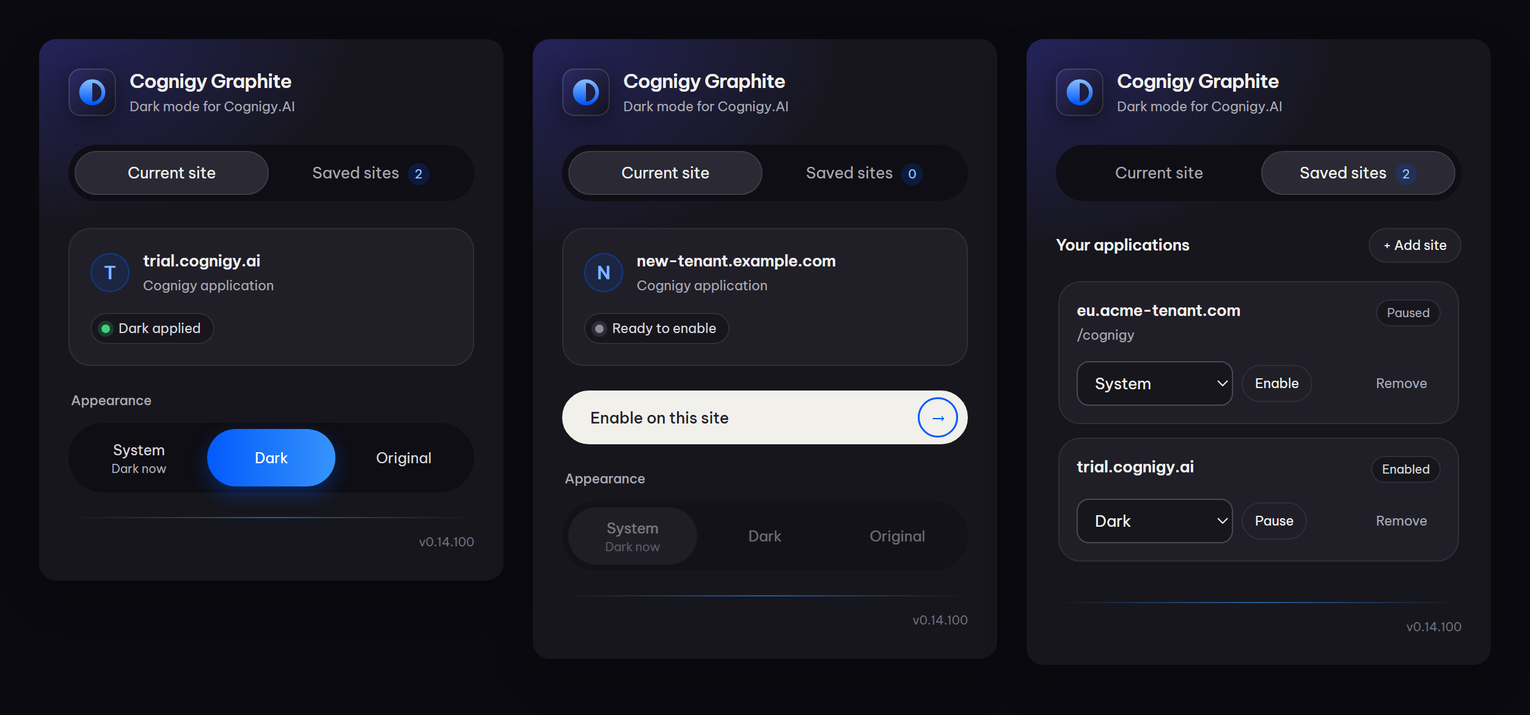
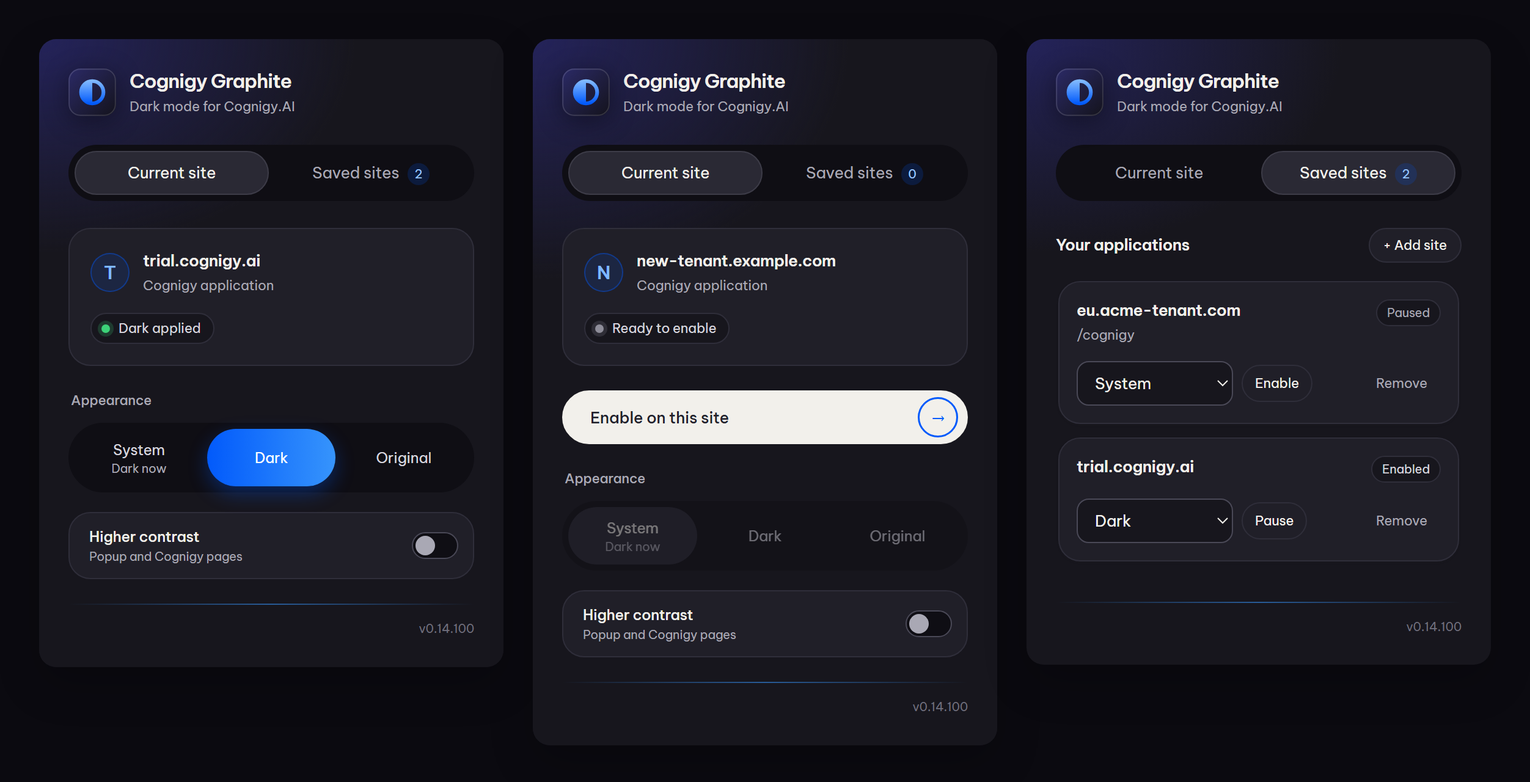
Add Higher contrast switch for popup and Cognigy pages
A global setting (cogDepth.contrast.v1, separate from per-site
modes) strengthens text, icon, border, focus and state tokens.
On pages it rides on a data-cg-contrast marker that is owned and
restored like the palette marker; the popup applies matching
Paper and Ink overrides. Brand look stays the default.

diff --git a/extension/popup.css b/extension/popup.css
@@ -3,6 +3,8 @@
 :root{color-scheme:light;--electric:#025afb;--electric-2:#3694fc;--bg:#f2f0eb;--text:#21212b;--soft:#4c4c58;--muted:#6d6d78;--faint:#9a9aa4;--card:#fbfaf7;--card-shadow:0 1px 2px #21212b0d,0 8px 24px #21212b0f;--line:#dedee3;--line-strong:#c9c9d0;--track:#e8e6e0;--hover:#dcdad3;--button:#fbfaf7;--button-hover:#fff;--tab-on:#21212b;--tab-on-line:#21212b;--tab-on-text:#fff;--tab-on-shadow:0 4px 10px #21212b33;--seg-on:#21212b;--seg-on-shadow:0 4px 12px #21212b40;--seg-on-small:#c9c9d6;--seg-off:#cfcdc6;--seg-off-text:#4c4c58;--cta:#21212b;--cta-hover:#000;--cta-text:#fff;--arrow:#3694fc;--count:#025afb1a;--count-text:#025afb;--count-on:#ffffff26;--count-on-text:#fff;--symbol:#025afb12;--symbol-line:#025afb40;--symbol-text:#025afb;--chip:#f2f0eb;--input:#fff;--focus:#025afb;--notice:#025afb12;--notice-line:#025afb40;--error:#b3261e;--remove-hover:#fbe9eb;--remove-line:#e3b5bc;--remove-text:#8c1d2b;--dot-on:#008359;--dot-busy:#025afb;--dot-warn:#c98a12;--dot-idle:#9a9aa4;--rule:#dedee3;--mark-shadow:#21212b33;--glow:none}
 /* Ink: the dark Cognigy palette, matching what the extension paints. */
 @media(prefers-color-scheme:dark){:root{color-scheme:dark;--bg:#17161d;--text:#f2f0eb;--soft:#d6d5de;--muted:#a9a8b4;--faint:#6f6e7c;--card:#201f28;--card-shadow:none;--line:#2f2e3a;--line-strong:#4a4957;--track:#0f0e14;--hover:#2a2934;--button:#201f28;--button-hover:#2a2934;--tab-on:#2a2934;--tab-on-line:#3d3c48;--tab-on-text:#f2f0eb;--tab-on-shadow:none;--seg-on:linear-gradient(90deg,#025afb,#3694fc);--seg-on-shadow:0 6px 16px #025afb55;--seg-on-small:#dbe9ff;--seg-off:#2a2934;--seg-off-text:#f2f0eb;--cta:#f2f0eb;--cta-hover:#fff;--cta-text:#21212b;--arrow:#025afb;--count:#025afb2e;--count-text:#9cc6ff;--count-on:#025afb2e;--count-on-text:#9cc6ff;--symbol:#025afb1f;--symbol-line:#025afb66;--symbol-text:#7fb8ff;--chip:#17161d;--input:#17161d;--focus:#7fb8ff;--notice:#025afb1f;--notice-line:#025afb66;--error:#ffb4bf;--remove-hover:#3b2a35;--remove-line:#856373;--remove-text:#ffd4dc;--dot-on:#3cd278;--dot-busy:#3694fc;--dot-warn:#f0c27a;--dot-idle:#8e8d99;--rule:linear-gradient(90deg,transparent,#3694fc8c,transparent);--mark-shadow:#0006;--glow:radial-gradient(110% 55% at 0 0,#24235a 0,transparent 62%)}}
-:root{font:13px/1.5 "Be Vietnam Pro",system-ui,-apple-system,"Segoe UI",sans-serif;letter-spacing:-.01em;color:var(--text);background:var(--bg)}
+/* Higher contrast (user switch): stronger text, borders and selected states in both themes. */
+:root[data-contrast=more]{--soft:#2e2e38;--muted:#4a4a55;--faint:#5a5a65;--line:#b4b4bd;--line-strong:#76767f;--count-text:#0041b8;--symbol-text:#0041b8;--symbol-line:#0041b8;--dot-idle:#5a5a65;--focus:#0041b8;--rule:#b4b4bd}
+@media(prefers-color-scheme:dark){:root[data-contrast=more]{--soft:#ecebf2;--muted:#c9c8d3;--faint:#a3a2ae;--line:#4a4957;--line-strong:#8a8997;--tab-on-line:#8a8997;--seg-on:#0047d6;--seg-on-small:#fff;--count-text:#bcd8ff;--symbol-text:#bcd8ff;--symbol-line:#7fb8ff;--dot-idle:#a3a2ae;--focus:#fff;--rule:#4a4957}}:root{font:13px/1.5 "Be Vietnam Pro",system-ui,-apple-system,"Segoe UI",sans-serif;letter-spacing:-.01em;color:var(--text);background:var(--bg)}
 /* Chrome sizes action popups from the document intrinsic width. Do not cap it to the initial viewport. */
-html{width:380px;min-width:380px}*{box-sizing:border-box}[hidden]{display:none!important}body{margin:0;width:380px;min-width:380px;max-height:600px;overflow-y:auto;padding:24px;background:var(--glow),var(--bg)}button,input,select{font:inherit;letter-spacing:inherit}button{cursor:pointer;color:inherit;border:1px solid var(--line);border-radius:999px;background:var(--button);padding:9px 14px;transition:background-color .12s,border-color .12s}button:hover{background:var(--button-hover);border-color:var(--line-strong)}button:disabled{opacity:.45;cursor:default}button:focus-visible,input:focus-visible,select:focus-visible,summary:focus-visible{outline:2px solid var(--focus);outline-offset:3px}header{display:flex;align-items:center;gap:11px;margin-bottom:23px}.mark{display:block;width:39px;height:39px;flex-shrink:0;filter:drop-shadow(0 4px 10px var(--mark-shadow))}h1{font-size:16px;font-weight:600;letter-spacing:-.035em;line-height:1.3;margin:0}header p{margin:2px 0 0;color:var(--muted);font-size:11px}.views{display:flex;gap:4px;padding:4px;background:var(--track);border:1px solid transparent;border-radius:999px;margin-bottom:22px}.views button{flex:1;border:1px solid transparent;background:transparent;color:var(--muted);padding:7px 4px}.views button:hover{background:var(--hover);border-color:transparent}.views button[aria-pressed=true]{background:var(--tab-on);border-color:var(--tab-on-line);color:var(--tab-on-text);box-shadow:var(--tab-on-shadow)}#site-count{display:inline-flex;align-items:center;justify-content:center;min-width:18px;height:18px;margin-left:4px;padding:0 5px;border-radius:999px;background:var(--count);font-size:10px;color:var(--count-text)}.views button[aria-pressed=true] #site-count{background:var(--count-on);color:var(--count-on-text)}.site-card,.saved-card{border:1px solid var(--line);background:var(--card);border-radius:18px;box-shadow:var(--card-shadow)}.site-card{padding:17px;margin-bottom:20px}.site-heading{display:flex;gap:11px;align-items:center}.site-symbol{display:grid;place-items:center;flex-shrink:0;width:32px;height:32px;background:var(--symbol);border:1px solid var(--symbol-line);border-radius:50%;font-size:15px;font-weight:600;color:var(--symbol-text)}.site-identity{min-width:0}h2{font-size:13px;font-weight:600;letter-spacing:-.02em;line-height:1.4;margin:0;overflow-wrap:anywhere}.site-identity p{font-size:11px;color:var(--muted);margin:3px 0 0;overflow-wrap:anywhere}.badge{display:inline-block;margin-top:13px;border-radius:999px;padding:2px 8px;background:var(--chip);color:var(--soft);font-size:10px;line-height:1.6;border:1px solid var(--line)}.badge[data-state=paused],.badge[data-state=pending]{color:var(--muted)}.primary{background:var(--cta);border-color:var(--cta);color:var(--cta-text);font-weight:500}.primary:hover{background:var(--cta-hover);border-color:var(--cta-hover)}.primary.wide{display:flex;align-items:center;justify-content:space-between;height:44px;padding:0 7px 0 22px}.primary.wide::after{content:"→";display:grid;place-items:center;width:30px;height:30px;border:1.5px solid var(--arrow);border-radius:50%;color:var(--arrow);font-size:14px}.wide{width:100%;margin:0 0 20px}fieldset{padding:0;margin:0;border:0}legend{margin:0 0 10px;font-size:11px;color:var(--muted);font-weight:500}.modes{display:flex;padding:4px;background:var(--track);border:1px solid transparent;border-radius:999px;gap:3px}.modes label{flex:1;cursor:pointer;position:relative}.modes input{position:absolute;opacity:0;width:1px;height:1px}.modes span{display:flex;flex-direction:column;justify-content:center;height:100%;text-align:center;padding:8px 4px;border-radius:999px;font-size:12px;color:var(--soft)}.modes small{font-size:10px;line-height:1.3;color:var(--muted)}.modes input:checked+span{background:var(--seg-on);color:#fff;box-shadow:var(--seg-on-shadow)}.modes input:checked+span small{color:var(--seg-on-small)}.modes input:focus-visible+span{outline:2px solid var(--focus);outline-offset:3px}.modes input:not(:checked)+span:hover{background:var(--hover)}fieldset:disabled .modes{opacity:.45}fieldset:disabled .modes input:checked+span{background:var(--seg-off);color:var(--seg-off-text);box-shadow:none}fieldset:disabled .modes input:checked+span small{color:var(--muted)}.status{--dot:var(--dot-idle);display:inline-flex;align-items:center;gap:7px;margin:14px 0 0;padding:3px 10px 3px 8px;border-radius:999px;border:1px solid var(--line);background:var(--chip);color:var(--soft);font-size:11px;line-height:1.6}.status::before{content:"";width:7px;height:7px;flex-shrink:0;border-radius:50%;background:var(--dot);box-shadow:0 0 0 3px color-mix(in srgb,var(--dot) 20%,transparent)}.status[data-tone=on]{--dot:var(--dot-on)}.status[data-tone=busy]{--dot:var(--dot-busy)}.status[data-tone=warn]{--dot:var(--dot-warn)}.section-heading{display:flex;align-items:center;justify-content:space-between;gap:8px;margin-bottom:14px}.small{padding:5px 11px;font-size:11px}.saved-card{padding:14px;margin-bottom:11px;box-shadow:0 1px 2px #21212b14}.saved-top{display:flex;align-items:start;justify-content:space-between;gap:8px}.saved-top .badge{flex-shrink:0;margin:0}.saved-path{color:var(--muted);font-size:10px;overflow-wrap:anywhere;margin:3px 0 0}.saved-controls{display:flex;align-items:center;gap:7px;margin-top:13px}.saved-controls select{min-width:0;max-width:128px;flex:1}.saved-controls button{font-size:11px;padding:6px 10px}.saved-controls .remove{margin-left:auto;background:transparent;border-color:transparent;color:var(--muted)}.saved-controls .remove:hover{border-color:var(--remove-line);color:var(--remove-text);background:var(--remove-hover)}input[type=text],select{width:100%;color:var(--text);background:var(--input);border:1px solid var(--line-strong);border-radius:10px;padding:8px 10px}input::placeholder{color:var(--faint)}#add-form{border:1px solid var(--line);padding:15px;border-radius:18px;background:var(--card);box-shadow:var(--card-shadow);margin-bottom:15px}#add-form label{display:block;margin-bottom:6px;font-size:11px;font-weight:600}#add-form .primary{padding:7px 16px}details{margin-top:11px}summary{color:var(--soft);font-size:11px;cursor:pointer;margin-bottom:8px}.muted{color:var(--muted);font-weight:400}.error{color:var(--error);font-size:11px;margin:8px 0}.error:empty{display:none}.form-actions{display:flex;justify-content:flex-end;gap:8px;margin-top:15px}.form-actions button{font-size:11px}.quiet{background:transparent}.empty{color:var(--muted);text-align:center;font-size:12px;margin:30px 0}#notice{font-size:11px;color:var(--text);background:var(--notice);border:1px solid var(--notice-line);border-radius:12px;padding:9px 11px;margin:14px 0 0}footer{position:relative;margin-top:20px;padding-top:13px;display:flex;align-items:center;gap:7px;color:var(--muted);font-size:10px}footer::before{content:"";position:absolute;left:0;right:0;top:0;height:1px;background:var(--rule)}#version{margin-left:auto;color:var(--faint)}#saved-list{max-height:310px;overflow-y:auto;scrollbar-width:thin;padding:1px 2px 2px}body:has(#add-form:not([hidden])) #saved-list,body:has(#add-form:not([hidden])) #empty-sites{display:none}body:has(#add-form:not([hidden])) #show-add{visibility:hidden}@media(prefers-reduced-motion:reduce){*{transition:none}}
+html{width:380px;min-width:380px}*{box-sizing:border-box}[hidden]{display:none!important}body{margin:0;width:380px;min-width:380px;max-height:600px;overflow-y:auto;padding:24px;background:var(--glow),var(--bg)}button,input,select{font:inherit;letter-spacing:inherit}button{cursor:pointer;color:inherit;border:1px solid var(--line);border-radius:999px;background:var(--button);padding:9px 14px;transition:background-color .12s,border-color .12s}button:hover{background:var(--button-hover);border-color:var(--line-strong)}button:disabled{opacity:.45;cursor:default}button:focus-visible,input:focus-visible,select:focus-visible,summary:focus-visible{outline:2px solid var(--focus);outline-offset:3px}header{display:flex;align-items:center;gap:11px;margin-bottom:23px}.mark{display:block;width:39px;height:39px;flex-shrink:0;filter:drop-shadow(0 4px 10px var(--mark-shadow))}h1{font-size:16px;font-weight:600;letter-spacing:-.035em;line-height:1.3;margin:0}header p{margin:2px 0 0;color:var(--muted);font-size:11px}.views{display:flex;gap:4px;padding:4px;background:var(--track);border:1px solid transparent;border-radius:999px;margin-bottom:22px}.views button{flex:1;border:1px solid transparent;background:transparent;color:var(--muted);padding:7px 4px}.views button:hover{background:var(--hover);border-color:transparent}.views button[aria-pressed=true]{background:var(--tab-on);border-color:var(--tab-on-line);color:var(--tab-on-text);box-shadow:var(--tab-on-shadow)}#site-count{display:inline-flex;align-items:center;justify-content:center;min-width:18px;height:18px;margin-left:4px;padding:0 5px;border-radius:999px;background:var(--count);font-size:10px;color:var(--count-text)}.views button[aria-pressed=true] #site-count{background:var(--count-on);color:var(--count-on-text)}.site-card,.saved-card{border:1px solid var(--line);background:var(--card);border-radius:18px;box-shadow:var(--card-shadow)}.site-card{padding:17px;margin-bottom:20px}.site-heading{display:flex;gap:11px;align-items:center}.site-symbol{display:grid;place-items:center;flex-shrink:0;width:32px;height:32px;background:var(--symbol);border:1px solid var(--symbol-line);border-radius:50%;font-size:15px;font-weight:600;color:var(--symbol-text)}.site-identity{min-width:0}h2{font-size:13px;font-weight:600;letter-spacing:-.02em;line-height:1.4;margin:0;overflow-wrap:anywhere}.site-identity p{font-size:11px;color:var(--muted);margin:3px 0 0;overflow-wrap:anywhere}.badge{display:inline-block;margin-top:13px;border-radius:999px;padding:2px 8px;background:var(--chip);color:var(--soft);font-size:10px;line-height:1.6;border:1px solid var(--line)}.badge[data-state=paused],.badge[data-state=pending]{color:var(--muted)}.primary{background:var(--cta);border-color:var(--cta);color:var(--cta-text);font-weight:500}.primary:hover{background:var(--cta-hover);border-color:var(--cta-hover)}.primary.wide{display:flex;align-items:center;justify-content:space-between;height:44px;padding:0 7px 0 22px}.primary.wide::after{content:"→";display:grid;place-items:center;width:30px;height:30px;border:1.5px solid var(--arrow);border-radius:50%;color:var(--arrow);font-size:14px}.wide{width:100%;margin:0 0 20px}fieldset{padding:0;margin:0;border:0}legend{margin:0 0 10px;font-size:11px;color:var(--muted);font-weight:500}.modes{display:flex;padding:4px;background:var(--track);border:1px solid transparent;border-radius:999px;gap:3px}.modes label{flex:1;cursor:pointer;position:relative}.modes input{position:absolute;opacity:0;width:1px;height:1px}.modes span{display:flex;flex-direction:column;justify-content:center;height:100%;text-align:center;padding:8px 4px;border-radius:999px;font-size:12px;color:var(--soft)}.modes small{font-size:10px;line-height:1.3;color:var(--muted)}.modes input:checked+span{background:var(--seg-on);color:#fff;box-shadow:var(--seg-on-shadow)}.modes input:checked+span small{color:var(--seg-on-small)}.modes input:focus-visible+span{outline:2px solid var(--focus);outline-offset:3px}.modes input:not(:checked)+span:hover{background:var(--hover)}fieldset:disabled .modes{opacity:.45}fieldset:disabled .modes input:checked+span{background:var(--seg-off);color:var(--seg-off-text);box-shadow:none}fieldset:disabled .modes input:checked+span small{color:var(--muted)}.status{--dot:var(--dot-idle);display:inline-flex;align-items:center;gap:7px;margin:14px 0 0;padding:3px 10px 3px 8px;border-radius:999px;border:1px solid var(--line);background:var(--chip);color:var(--soft);font-size:11px;line-height:1.6}.status::before{content:"";width:7px;height:7px;flex-shrink:0;border-radius:50%;background:var(--dot);box-shadow:0 0 0 3px color-mix(in srgb,var(--dot) 20%,transparent)}.status[data-tone=on]{--dot:var(--dot-on)}.status[data-tone=busy]{--dot:var(--dot-busy)}.status[data-tone=warn]{--dot:var(--dot-warn)}.section-heading{display:flex;align-items:center;justify-content:space-between;gap:8px;margin-bottom:14px}.small{padding:5px 11px;font-size:11px}.saved-card{padding:14px;margin-bottom:11px;box-shadow:0 1px 2px #21212b14}.saved-top{display:flex;align-items:start;justify-content:space-between;gap:8px}.saved-top .badge{flex-shrink:0;margin:0}.saved-path{color:var(--muted);font-size:10px;overflow-wrap:anywhere;margin:3px 0 0}.saved-controls{display:flex;align-items:center;gap:7px;margin-top:13px}.saved-controls select{min-width:0;max-width:128px;flex:1}.saved-controls button{font-size:11px;padding:6px 10px}.saved-controls .remove{margin-left:auto;background:transparent;border-color:transparent;color:var(--muted)}.saved-controls .remove:hover{border-color:var(--remove-line);color:var(--remove-text);background:var(--remove-hover)}input[type=text],select{width:100%;color:var(--text);background:var(--input);border:1px solid var(--line-strong);border-radius:10px;padding:8px 10px}input::placeholder{color:var(--faint)}#add-form{border:1px solid var(--line);padding:15px;border-radius:18px;background:var(--card);box-shadow:var(--card-shadow);margin-bottom:15px}#add-form label{display:block;margin-bottom:6px;font-size:11px;font-weight:600}#add-form .primary{padding:7px 16px}details{margin-top:11px}summary{color:var(--soft);font-size:11px;cursor:pointer;margin-bottom:8px}.muted{color:var(--muted);font-weight:400}.error{color:var(--error);font-size:11px;margin:8px 0}.error:empty{display:none}.form-actions{display:flex;justify-content:flex-end;gap:8px;margin-top:15px}.form-actions button{font-size:11px}.quiet{background:transparent}.empty{color:var(--muted);text-align:center;font-size:12px;margin:30px 0}#notice{font-size:11px;color:var(--text);background:var(--notice);border:1px solid var(--notice-line);border-radius:12px;padding:9px 11px;margin:14px 0 0}footer{position:relative;margin-top:20px;padding-top:13px;display:flex;align-items:center;gap:7px;color:var(--muted);font-size:10px}footer::before{content:"";position:absolute;left:0;right:0;top:0;height:1px;background:var(--rule)}#version{margin-left:auto;color:var(--faint)}#saved-list{max-height:310px;overflow-y:auto;scrollbar-width:thin;padding:1px 2px 2px}body:has(#add-form:not([hidden])) #saved-list,body:has(#add-form:not([hidden])) #empty-sites{display:none}body:has(#add-form:not([hidden])) #show-add{visibility:hidden}.switch{display:flex;align-items:center;justify-content:space-between;gap:12px;margin-top:16px;padding:10px 12px 10px 16px;border:1px solid var(--line);border-radius:18px;background:var(--card);cursor:pointer}.switch>span{display:flex;flex-direction:column;font-size:12px;font-weight:500}.switch small{font-size:10px;font-weight:400;color:var(--muted)}.switch input{appearance:none;flex-shrink:0;margin:0;width:38px;height:22px;border-radius:999px;background:var(--track);border:1px solid var(--line-strong);position:relative;cursor:pointer;transition:background-color .12s}.switch input::after{content:"";position:absolute;top:2px;left:2px;width:16px;height:16px;border-radius:50%;background:var(--muted);transition:transform .12s,background-color .12s}.switch input:checked{background:var(--electric);border-color:var(--electric)}.switch input:checked::after{transform:translateX(16px);background:#fff}.switch input:focus-visible{outline:2px solid var(--focus);outline-offset:3px}@media(prefers-reduced-motion:reduce){*{transition:none}}

diff --git a/extension/content.js b/extension/content.js
@@ -15,7 +15,7 @@ globalThis.CogGraphiteStart=() => {
   const storageKey = core.key(siteId);
   const darkMedia = matchMedia('(prefers-color-scheme: dark)');
   const forcedMedia = matchMedia('(forced-colors: active)');
-  let mode = 'native', generation = 0, ready = false, suspended = false;
+  let mode = 'native', contrast = 'standard', generation = 0, ready = false, suspended = false;
   let scheduled = false, state = {appliedMode:'native',status:'original'},refusedFamilies=[];
   let pendingFamilies = new Set(), pendingAll = false;
   let marked = new Map();
@@ -67,6 +67,13 @@ globalThis.CogGraphiteStart=() => {
     if(family!=='palette')guardTransition(el,transition);
     if(name==='data-cg-slot'&&value.split(' ').includes('placeholder'))guardPlaceholder(el);
     if(el.getAttribute(name)!==value)el.setAttribute(name, value);
+  };
+  // Palette-family markers survive preserved requalification, so a switched-off
+  // option restores its own prior value instead of waiting for a full clear.
+  const disown = (el, name) => {
+    const entry=marked.get(el)?.get(name);if(!entry)return;
+    if(entry.prior===null)el.removeAttribute(name);else el.setAttribute(name,entry.prior);
+    marked.get(el).delete(name);if(!marked.get(el).size)marked.delete(el);
   };
   function clear(only=null,preserveActivation=false) {
     for (const [el, attrs] of marked) {
@@ -144,6 +151,7 @@ globalThis.CogGraphiteStart=() => {
       const hasPaint=[...marked.values()].some(attrs=>[...attrs.values()].some(entry=>entry.family!=='palette'));
       if (!result.applied && !hasPaint) { clear(); state.status='unsupported'; return; }
       own(document.documentElement, 'data-cg-palette', 'graphite-v3');
+      if(contrast==='more')own(document.documentElement,'data-cg-contrast','more');else disown(document.documentElement,'data-cg-contrast');
       own(document.documentElement, 'data-cg-build', build.candidateId);
       state = {appliedMode:'dark',status:result.partial?'partial':mode==='system'?'system-dark':'dark'};
       const insightsNav=document.querySelector?.('nav[aria-label="Insights"]');
@@ -168,12 +176,12 @@ globalThis.CogGraphiteStart=() => {
   }
   async function refresh() {
     if(destroyed)return;
-    const before = generation, previousMode=mode, wasReady=ready;
+    const before = generation, previousMode=mode, previousContrast=contrast, wasReady=ready;
     try {
-      const value = await chrome.storage.local.get(storageKey);
-      if (generation === before && !suspended && !destroyed) {mode=core.modeOf(value[storageKey]);ready=true;}
+      const value = await chrome.storage.local.get([storageKey,core.contrastKey]);
+      if (generation === before && !suspended && !destroyed) {mode=core.modeOf(value[storageKey]);contrast=core.contrastOf(value[core.contrastKey]);ready=true;}
     } catch {if(!ready) mode='native';}
-    if(!wasReady||mode!==previousMode)resolve();
+    if(!wasReady||mode!==previousMode||contrast!==previousContrast)resolve();
   }
   const excluded='.monaco-editor,[data-1password-root],[data-codex-overlay],iframe,video';
   const owners=[['shell','.SIDEBAR_WRAPPER'],['banner','[role="banner"]'],['dashboard','div:has(> [role="banner"][data-test="AgentDashboardHeader"]),.MuiPopover-root'],['settings','div:has(> [role="banner"][data-test="AgentSettingsHeader"]),.MuiAutocomplete-popper,.MuiPopover-root'],['list','main#mainContent,div#mainContent'],['agents','main#mainContent[data-test="aiAgentMainContent"],div:has(> [role="banner"][data-test="AI-Agent-Edit"]),.MuiAutocomplete-popper,.MuiTooltip-popper'],['menu','.MuiPopover-root'],['chart','#flowChartEditorTabContent'],['inspector','#editSidebarWrapper,.MuiAutocomplete-popper'],['chat','#interactionPanel'],['global','#complementaryApplicationMenu,.MuiPopover-root,.MuiDialog-root:has(#hiddenDialogTitle):has(#dialogText)']];
@@ -233,7 +241,12 @@ globalThis.CogGraphiteStart=() => {
   }
   listen(chrome.storage.onChanged,(changes, area) => {
     if(destroyed)return;
-    if (area !== 'local' || !Object.hasOwn(changes,storageKey)) return;
+    if (area !== 'local') return;
+    if (Object.hasOwn(changes,core.contrastKey)) {
+      // Before the first read completes, that read sees the new value itself.
+      contrast=core.contrastOf(changes[core.contrastKey].newValue);if(ready){generation++;schedule();}
+    }
+    if (!Object.hasOwn(changes,storageKey)) return;
     generation++;mode=core.modeOf(changes[storageKey].newValue);ready=true;schedule();
   });
   listen(chrome.runtime.onMessage,(message, sender, respond) => {

diff --git a/extension/popup.html b/extension/popup.html
@@ -5,7 +5,8 @@
 <main><section id="current-view" aria-label="Current site">
 <article class="site-card"><div class="site-heading"><span id="site-initial" class="site-symbol" aria-hidden="true">C</span><div class="site-identity"><h2 id="host">Connecting…</h2><p id="application-path">Cognigy application</p></div></div><p id="status" class="status" role="status" aria-live="polite" data-tone="busy">Connecting…</p></article>
 <button id="enable-site" class="primary wide" hidden>Enable on this site</button>
-<fieldset disabled><legend>Appearance</legend><div class="modes"><label><input type="radio" name="mode" value="system"><span>System<small id="system-hint"></small></span></label><label><input type="radio" name="mode" value="dark"><span>Dark</span></label><label><input type="radio" name="mode" value="native"><span>Original</span></label></div></fieldset></section>
+<fieldset disabled><legend>Appearance</legend><div class="modes"><label><input type="radio" name="mode" value="system"><span>System<small id="system-hint"></small></span></label><label><input type="radio" name="mode" value="dark"><span>Dark</span></label><label><input type="radio" name="mode" value="native"><span>Original</span></label></div></fieldset>
+<label class="switch"><span>Higher contrast<small>Popup and Cognigy pages</small></span><input id="contrast" type="checkbox" role="switch"></label></section>
 <section id="saved-view" aria-label="Saved sites" hidden><div class="section-heading"><h2>Your applications</h2><button id="show-add" class="small">+ Add site</button></div>
 <form id="add-form" hidden novalidate><label for="site-address">Website address</label><input id="site-address" type="text" inputmode="url" autocomplete="off" spellcheck="false" placeholder="tenant.example.com">
 <details id="path-options"><summary>Application path</summary><label for="site-path">Path prefix <span class="muted">optional</span></label><input id="site-path" type="text" autocomplete="off" spellcheck="false" placeholder="/cognigy"></details>

diff --git a/extension/core.js b/extension/core.js
@@ -9,6 +9,9 @@
   // updates; malformed stored records still fail back to the native page.
   const modeOf = value => value === undefined ? 'system' : value && Object.keys(value).length === 1 && validMode(value.mode) ? value.mode : 'native';
   const requestedDark = (mode, osDark) => mode === 'dark' || (mode === 'system' && osDark);
+  // One choice for every site, kept apart from the per-site mode records.
+  const contrastKey = 'cogDepth.contrast.v1';
+  const contrastOf = value => value && Object.keys(value).length === 1 && value.level === 'more' ? 'more' : 'standard';
   const routeFamily=(site,path)=>{
     if(site!=='trial')return 'unmapped';
     if(/^\/projects\/?$/.test(path))return 'project-index';
@@ -21,7 +24,7 @@
     const area=/^\/project\/[^/]+\/[^/]+\/([^/]+)/.exec(path)?.[1];
     return ['flows','knowledge','ai-agents','endpoints','endpoint','snapshots','large-language-models','playbooks','settings','lexicons','goals','connections','nlu-connectors','functions','handover-providers','locales','tokens','members','contacts','logs','trainer','extensions','packaging','simulator'].includes(area)?area:'unmapped';
   };
-  const api = Object.freeze({sites,hosts,validMode,modeOf,requestedDark,routeFamily,key:site=>'cogDepth.v1.'+site});
+  const api = Object.freeze({sites,hosts,validMode,modeOf,requestedDark,contrastKey,contrastOf,routeFamily,key:site=>'cogDepth.v1.'+site});
   if (typeof module !== 'undefined' && module.exports) module.exports = api;
   else globalThis.CogGraphiteCore = api;
 })();

diff --git a/extension/popup.js b/extension/popup.js
@@ -60,6 +60,18 @@
       writing.finally(()=>{if(current===requestId)acknowledge(current).catch(()=>{if(current===requestId)disconnected();});});
     }
   });
+  // Higher contrast is one global choice; the popup previews it at once and
+  // content scripts on every enabled site pick it up from storage.
+  const contrast=document.querySelector('#contrast');
+  if(contrast) {
+    const show=level=>{contrast.checked=level==='more';document.documentElement.dataset.contrast=level;};
+    chrome.storage.local.get(core.contrastKey).then(value=>show(core.contrastOf(value[core.contrastKey])),()=>show('standard'));
+    contrast.addEventListener('change',()=>{
+      const level=contrast.checked?'more':'standard';show(level);
+      chrome.storage.local.set({[core.contrastKey]:{level}}).catch(()=>{show(level==='more'?'standard':'more');say('Couldn’t save. Try again.','warn');});
+    });
+    chrome.storage.onChanged.addListener((changes,area)=>{if(area==='local'&&Object.hasOwn(changes,core.contrastKey))show(core.contrastOf(changes[core.contrastKey].newValue));});
+  }
   globalThis.CogGraphitePopup={disconnect(){requestId++;siteId=undefined;disconnected();},async connect(id,doc){tabId=id;documentId=doc;return acknowledge(++requestId);}};
   if(!globalThis.CogGraphiteSiteUI)chrome.tabs.query({active:true,currentWindow:true}).then(async tabs=>{
     tabId=tabs[0]?.id;if(tabId===undefined) throw new Error('No tab');await acknowledge(++requestId);

diff --git a/extension/palette.css b/extension/palette.css
@@ -36,3 +36,24 @@
   --cg-popover-shadow: rgb(0 0 0 / 0.42);
   --cg-backdrop: rgb(0 0 0 / 0.56);
 }
+/* Higher contrast: same surfaces, stronger text, icons, borders and states. */
+:root[data-cg-palette="graphite-v3"][data-cg-contrast="more"] {
+  --cg-canvas: #111419;
+  --cg-text: #F7F9FC;
+  --cg-secondary: #D5DCE6;
+  --cg-muted: #CBD4E0;
+  --cg-icon: #DEE5EE;
+  --cg-border: #6E7D93;
+  --cg-control-border: #A9B6C8;
+  --cg-connector: #ABB8CA;
+  --cg-agent-rim: #7B8DA3;
+  --cg-accent: #ADCBFF;
+  --cg-focus: #FFFFFF;
+  --cg-button: #3A5CA3;
+  --cg-button-hover: #4265AE;
+  --cg-button-active: #314F8F;
+  --cg-error: #FFB3BA;
+  --cg-success: #96DFBE;
+  --cg-warning: #F3CF91;
+  --cg-info: #A9CFF6;
+}

diff --git a/README.md b/README.md
@@ -43,6 +43,8 @@ The toolbar popup follows your system theme: **Ink** in dark mode, **Paper** in 
 | **Dark** | Keeps Cognigy dark. |
 | **Original** | Restores Cognigy's native colours. |
 
+**Higher contrast:** a switch in the popup strengthens text, icons, borders and focus rings, in the popup and on every enabled Cognigy site. Surfaces keep the same graphite palette.
+
 **Trial:** `trial.cognigy.ai` is enabled by default.
 
 **Another Cognigy host:** open the popup → **Enable on this site** → approve access to that hostname.
